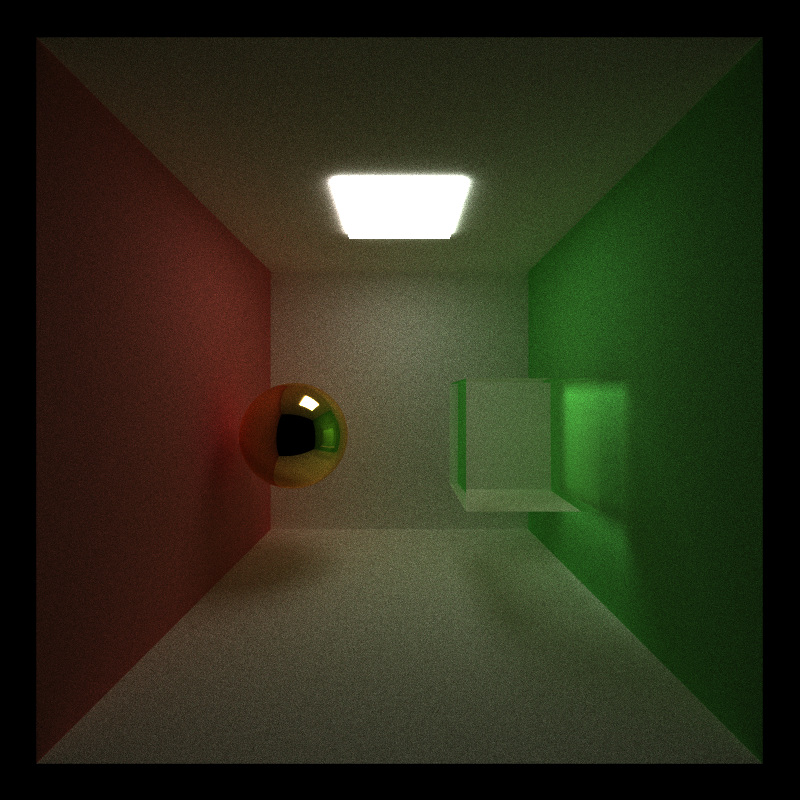
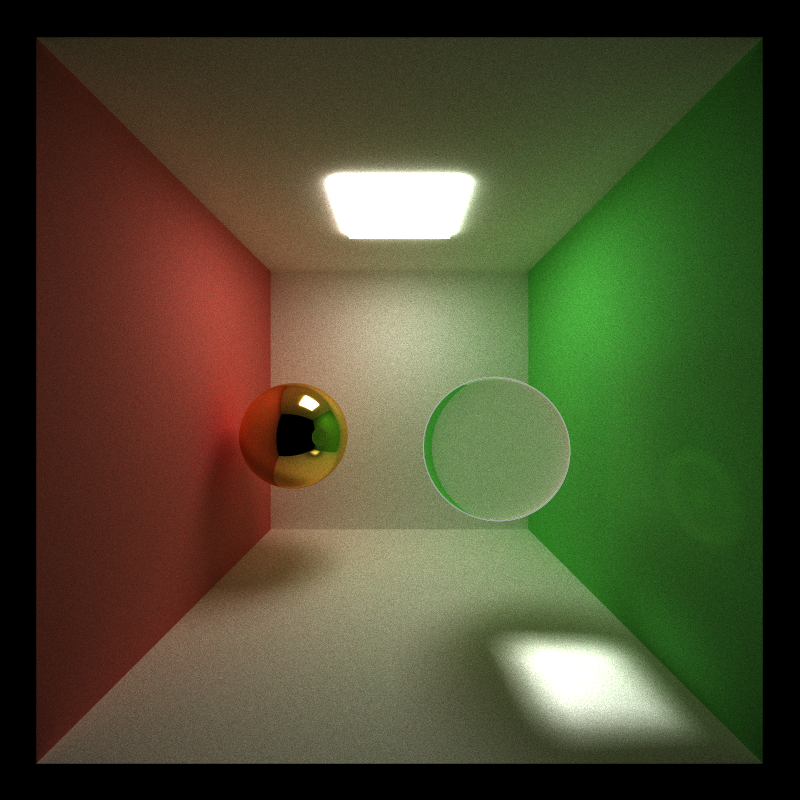
refraction and image

diff --git a/src/interactions.h b/src/interactions.h
@@ -83,17 +83,21 @@ void scatterRay(PathSegment &path, const ShadeableIntersection &intersection,
 				ray.direction, intersection.surfaceNormal));
 	} else if(material.hasRefractive > 0.f) {
 		// refraction
-		if (glm::dot(intersection.surfaceNormal, ray.direction) < 0) {
+		float cosine = glm::dot(intersection.surfaceNormal, ray.direction);
+
+		if (glm::abs(cosine) < 1e-2f) {
+			newRay.direction = ray.direction;
+		} else if (cosine < 0.f) {
 			newRay.direction = glm::refract(ray.direction,
-					intersection.surfaceNormal,	1.0f / material.indexOfRefraction);
+					intersection.surfaceNormal,	1.f / material.indexOfRefraction);
 		} else {
 			newRay.direction = glm::refract(ray.direction,
-					intersection.surfaceNormal,	material.indexOfRefraction);
+					-intersection.surfaceNormal, material.indexOfRefraction);
 		}
-
-		if (glm::length(newRay.direction) < 1e-4f){
+		// total reflection
+		if (glm::length(newRay.direction) < 1e-3f){
 			newRay.direction = glm::reflect(ray.direction,
-					intersection.surfaceNormal);
+					-intersection.surfaceNormal);
 		}
 	} else {
 		// lambert reflection

diff --git a/README.md b/README.md
@@ -26,7 +26,7 @@ _observation_ Images rendered with deeper trace level appear darker, which is du
 
 * Refraction
 
-Refraction 1, SPP 1000 | Refraction 2, SPP 1000
+Refraction 1, SPP 1000 | Refraction 2, SPP 5000
 --- | ---
 <img src="img/refraction_depth8_1000spp.png" width="400"> | <img src="img/refraction2_depth8_1000spp.png" width="400">
 _observation_ Since large amount of paths are traced, caustics produced by refraction are free.
